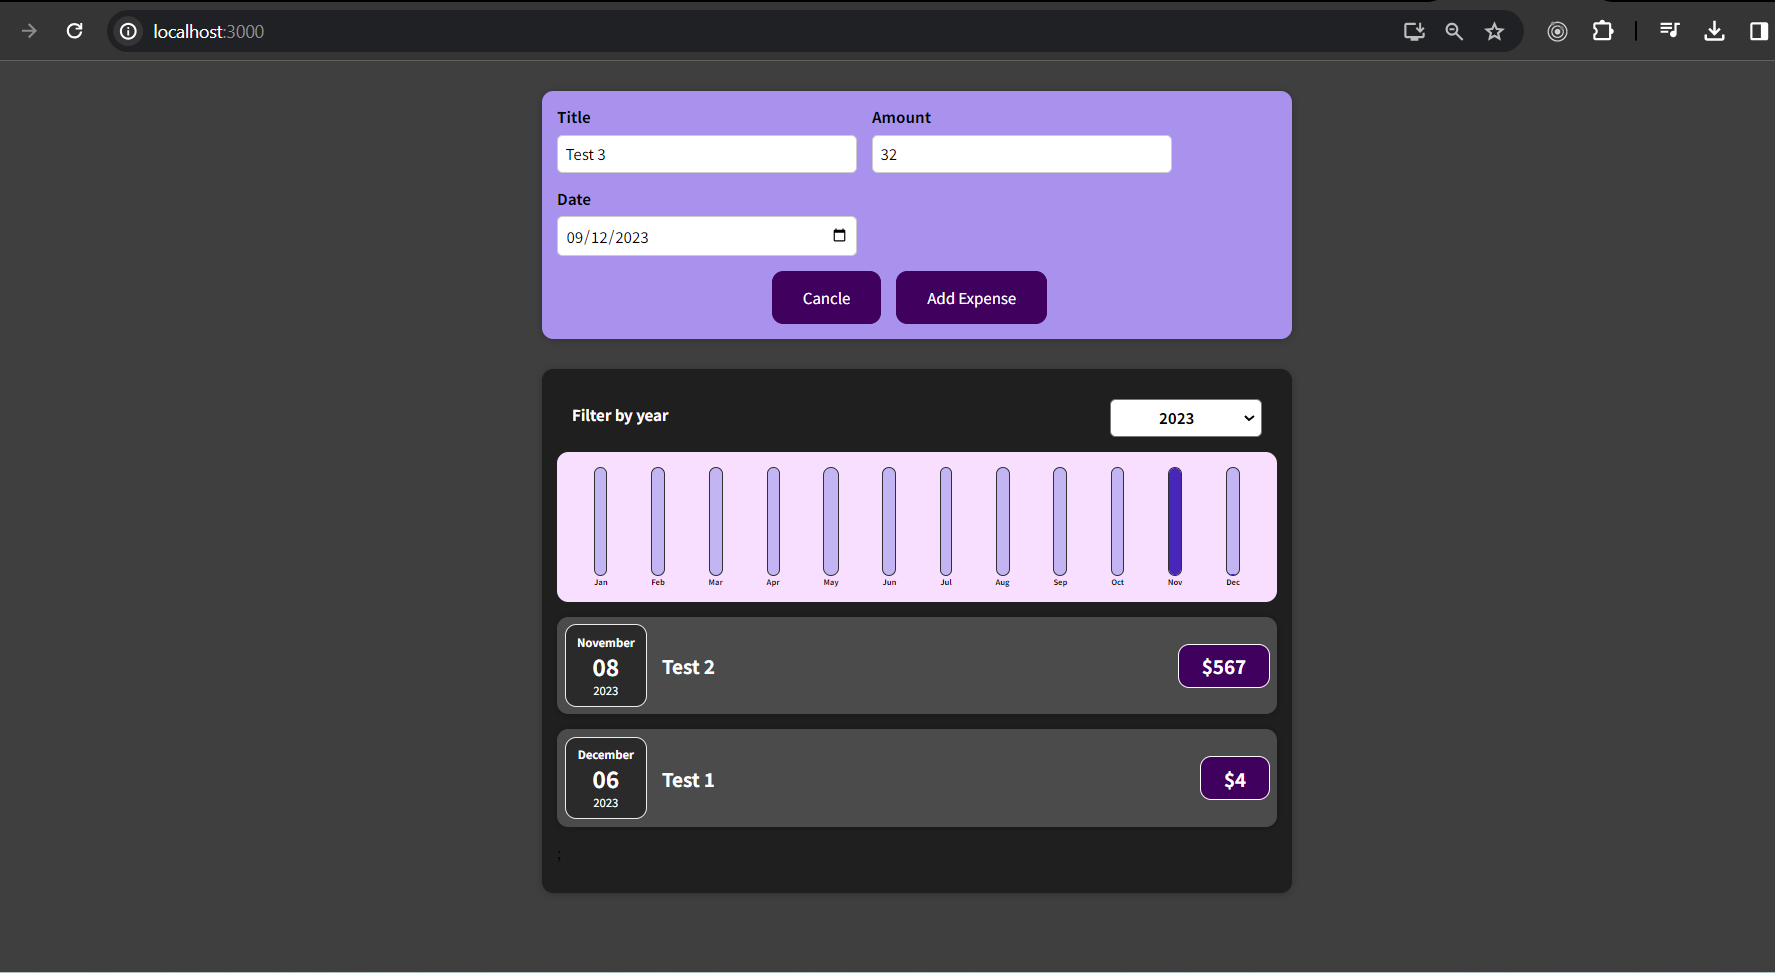
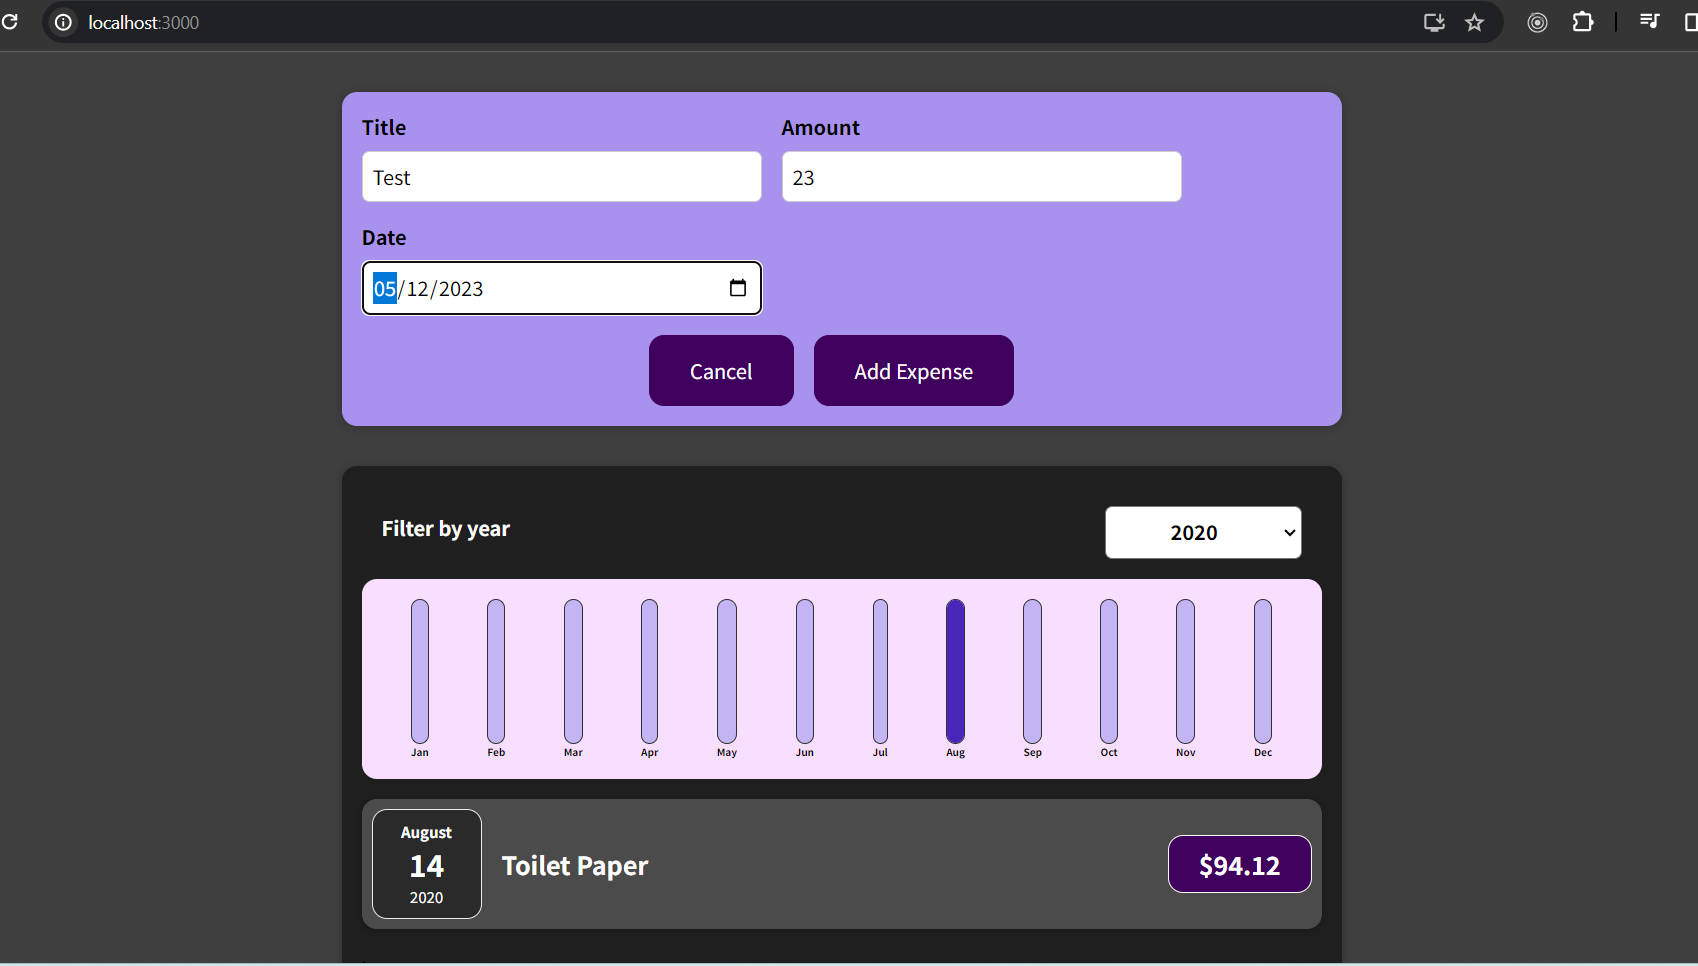
cancel button fixed

diff --git a/src/components/NewExpense/ExpenseForm.js b/src/components/NewExpense/ExpenseForm.js
@@ -69,8 +69,8 @@ const ExpenseForm = (props) => {
         </div>
       </div>
       <div className="new-expense__action"></div>
-      <button type="button" onClick={props.onCancle}>
-        Cancle
+      <button type="button" onClick={props.onCancel}>
+        Cancel
       </button>
       <button type="submit">Add Expense</button>
     </form>

diff --git a/src/components/NewExpense/NewExpense.js b/src/components/NewExpense/NewExpense.js
@@ -29,7 +29,7 @@ const NewExpense = (props) => {
       {isEditing && (
         <ExpenseForm
           onSaveExpenseData={saveExpeseDataHandler}
-          onCancle={stopEditingHandler}
+          onCancel={stopEditingHandler}
         />
       )}
     </div>
